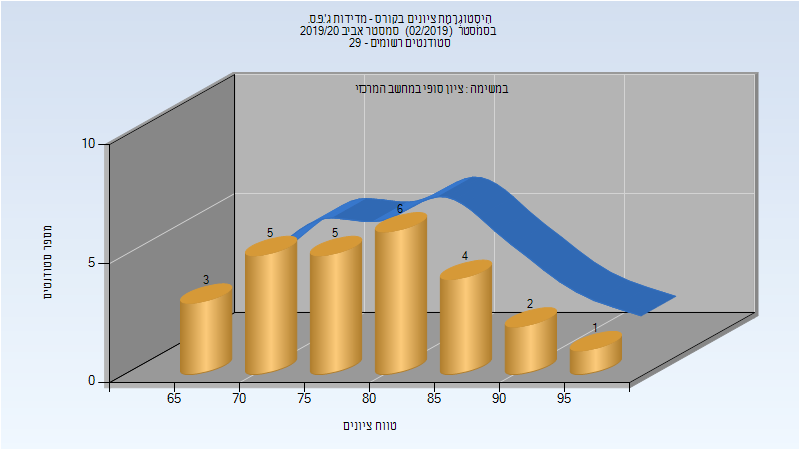
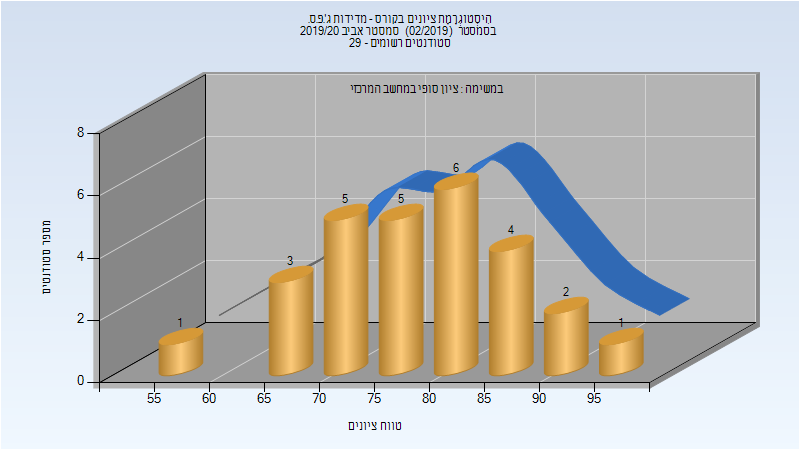
Deploy michael-maltsev/technion-histograms to github.com/michael-maltsev/technion-histograms.git:gh-pages

diff --git a/125013/index.html b/125013/index.html
@@ -1152,11 +1152,11 @@
 </thead>
 <tbody>
 <tr>
-<td>דה-רויטר גרהם</td>
+<td>עמירב דרורי לילך</td>
 <td>מדריך מעבדה - עם הרשאות מרצה אחראי</td>
 </tr>
 <tr>
-<td>עמירב דרורי לילך</td>
+<td>דה-רויטר גרהם</td>
 <td></td>
 </tr>
 <tr>

diff --git a/014852/index.html b/014852/index.html
@@ -161,13 +161,13 @@
 </thead>
 <tbody>
 <tr>
-<td>26</td>
-<td>26/0</td>
+<td>27</td>
+<td>27/0</td>
 <td>100</td>
-<td>65</td>
+<td>56</td>
 <td>95</td>
-<td>79.154</td>
-<td>79</td>
+<td>78.296</td>
+<td>77</td>
 </tr>
 </tbody>
 </table>

diff --git a/125013/README.md b/125013/README.md
@@ -339,8 +339,8 @@
 
 | איש סגל | תפקיד |
 | ---- | ---- |
-| דה-רויטר גרהם | מדריך מעבדה - עם הרשאות מרצה אחראי |
-| עמירב דרורי לילך |  |
+| עמירב דרורי לילך | מדריך מעבדה - עם הרשאות מרצה אחראי |
+| דה-רויטר גרהם |  |
 | אגמי איריס | מדריך מעבדה |
 | פוקרא מוחמד | מדריך מעבדה |
 | מג'דוב מחמוד | מדריך מעבדה |

diff --git a/014852/README.md b/014852/README.md
@@ -46,5 +46,5 @@
 
 | סטודנטים | עברו/נכשלו | אחוז עוברים | ציון מינימלי | ציון מקסימלי | ממוצע | חציון |
 | ---- | ---- | ---- | ---- | ---- | ---- | ---- |
-| 26 | 26/0 | 100 | 65 | 95 | 79.154 | 79 |
+| 27 | 27/0 | 100 | 56 | 95 | 78.296 | 77 |
 
